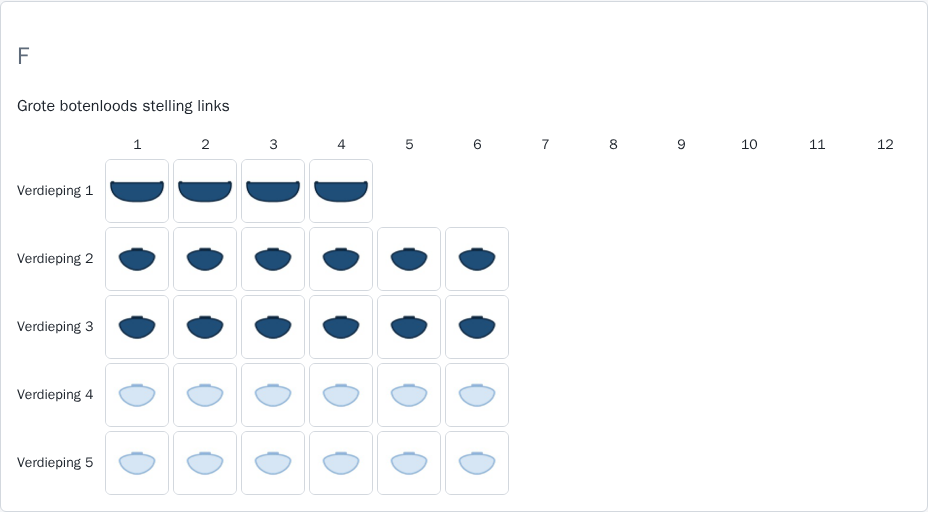
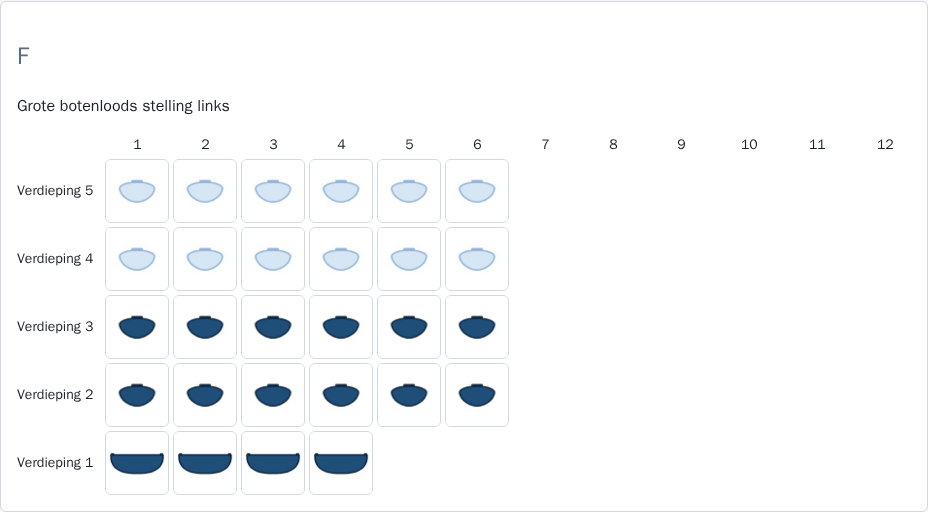
Rekoverzicht: verdieping 1 onderaan, zoals het rek in de loods staat (vervolg op issue #87)
Review: Sentinel, akkoord

diff --git a/app/web/templates/rekoverzicht.html b/app/web/templates/rekoverzicht.html
@@ -14,7 +14,8 @@
     <div class="raster raster-rek">
       <span aria-hidden="true"></span>
       {% for vak in vakken %}<span class="raster-kop" aria-hidden="true">{{ vak }}</span>{% endfor %}
-      {% for verdieping in rek.plaatsen|map(attribute='verdieping')|unique|sort %}
+      {# Verdieping 1 onderaan, zoals het rek in de loods staat. #}
+      {% for verdieping in rek.plaatsen|map(attribute='verdieping')|unique|sort(reverse=True) %}
       <span class="raster-kop raster-rij" aria-hidden="true">Verdieping {{ verdieping }}</span>
       {% for vak in vakken %}
       {% set v = vak_van.get((verdieping, vak)) %}

diff --git a/tests/unit/test_rekoverzicht.py b/tests/unit/test_rekoverzicht.py
@@ -102,3 +102,10 @@ def test_pagina_toont_per_plaats_een_plaatje_met_alt(ingelogd):
     assert 'src="/static/boten/kajak-bezet.jpg" alt="Plaats A/1/1, Kajak, bezet"' in tekst
     assert f'href="/plaatsen/{vrij.id}"' in tekst
     assert "Plaats A/1/2, Supboard, vrij</span>" in tekst
+
+
+def test_pagina_zet_verdieping_1_onderaan(ingelogd):
+    plaats("A/1/1")
+    plaats("A/2/1")
+    tekst = ingelogd.get("/rekoverzicht").text
+    assert tekst.index("Verdieping 2") < tekst.index("Verdieping 1"), "verdieping 1 hoort onderaan"

diff --git a/documentatie/gebruikers/handleiding.md b/documentatie/gebruikers/handleiding.md
@@ -70,7 +70,7 @@ De pagina `/indeling` toont elk rek met zijn omschrijving en plaatsen. Per plaat
 
 ### Rekoverzicht
 
-De pagina `/rekoverzicht` (menu **Rekoverzicht**) toont elk rek zoals het in de loods staat: een rij per verdieping, een kolom per vak, met een plaatje per plaats. Je ziet in één blik waar nog plek is. Kies een plaatje om de plaats te openen.
+De pagina `/rekoverzicht` (menu **Rekoverzicht**) toont elk rek zoals het in de loods staat: een rij per verdieping (verdieping 1 onderaan), een kolom per vak, met een plaatje per plaats. Je ziet in één blik waar nog plek is. Kies een plaatje om de plaats te openen.
 
 ![Het Rekoverzicht van één rek, met een plaatje per plaats.](afbeeldingen/rekoverzicht.png)
 
